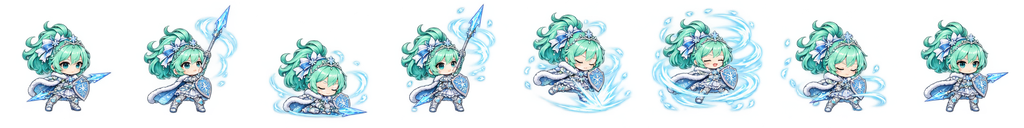
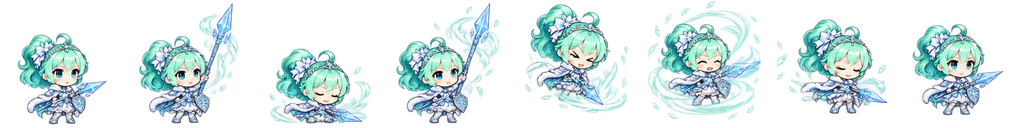
Refine snow princess gale sprite

diff --git a/docs/SESSION_HANDOFF.md b/docs/SESSION_HANDOFF.md
@@ -1,3 +1,7 @@
+# Current checkpoint — order 69 Mint gale visual revision (2026-11-11)
+
+Replaced the Mint gale candidate with a newly generated 8-frame sequence that visually follows the original action more closely, separated frames at a consistent scale, and retained original-versus-candidate GIF and mint_gale_comparison.jpg. A separate Mint run redraw retained blue noise and was not selected. Reverified all 68 manifest PNG hashes; 3 of 49 combat candidates have extra strong-alpha border pixels and 9 have >12px bounding-box differences relative to source. These are review signals only, not pass/fail proof. Seven shared files have been delivered/integrated separately; 61 files remain candidates requiring exact pose, anchors, motion and visual review. No runtime edits or mobile gameplay test performed in this task.
+
 # Current checkpoint — order 69 edge corrections (2026-11-11)
 
 Fetched and fast-forwarded to 260fa474; separate work integrated seven already-delivered shared art assets (5 pets, banner, icon atlas). Improved 17 hero candidate sheets by retaining clipped bottom edges, separating overlapping frames, cleaning Sesame base halo, and fixing uniform placement; do not call them finished: source pose, visual appearance, and animation continuity remain unapproved. EDGE_AUDIT.json now flags 3 of 49 sheets for extra strong-alpha border pixels relative to original, FRAME_AUDIT.json flags 9 for bbox differences over 12px; neither metric proves pose/anchors. Original generated Mint base final frame touches source image edge; candidate may have truncated VFX. Mint gale clean redraw and extra Yuzu/Sesame redo attempts did not pass visual checks and were not selected. Manifest hashes for all 68 files verified. The 61 hero/other files remain candidates. No runtime changes or in-game/mobile tests by this task.
